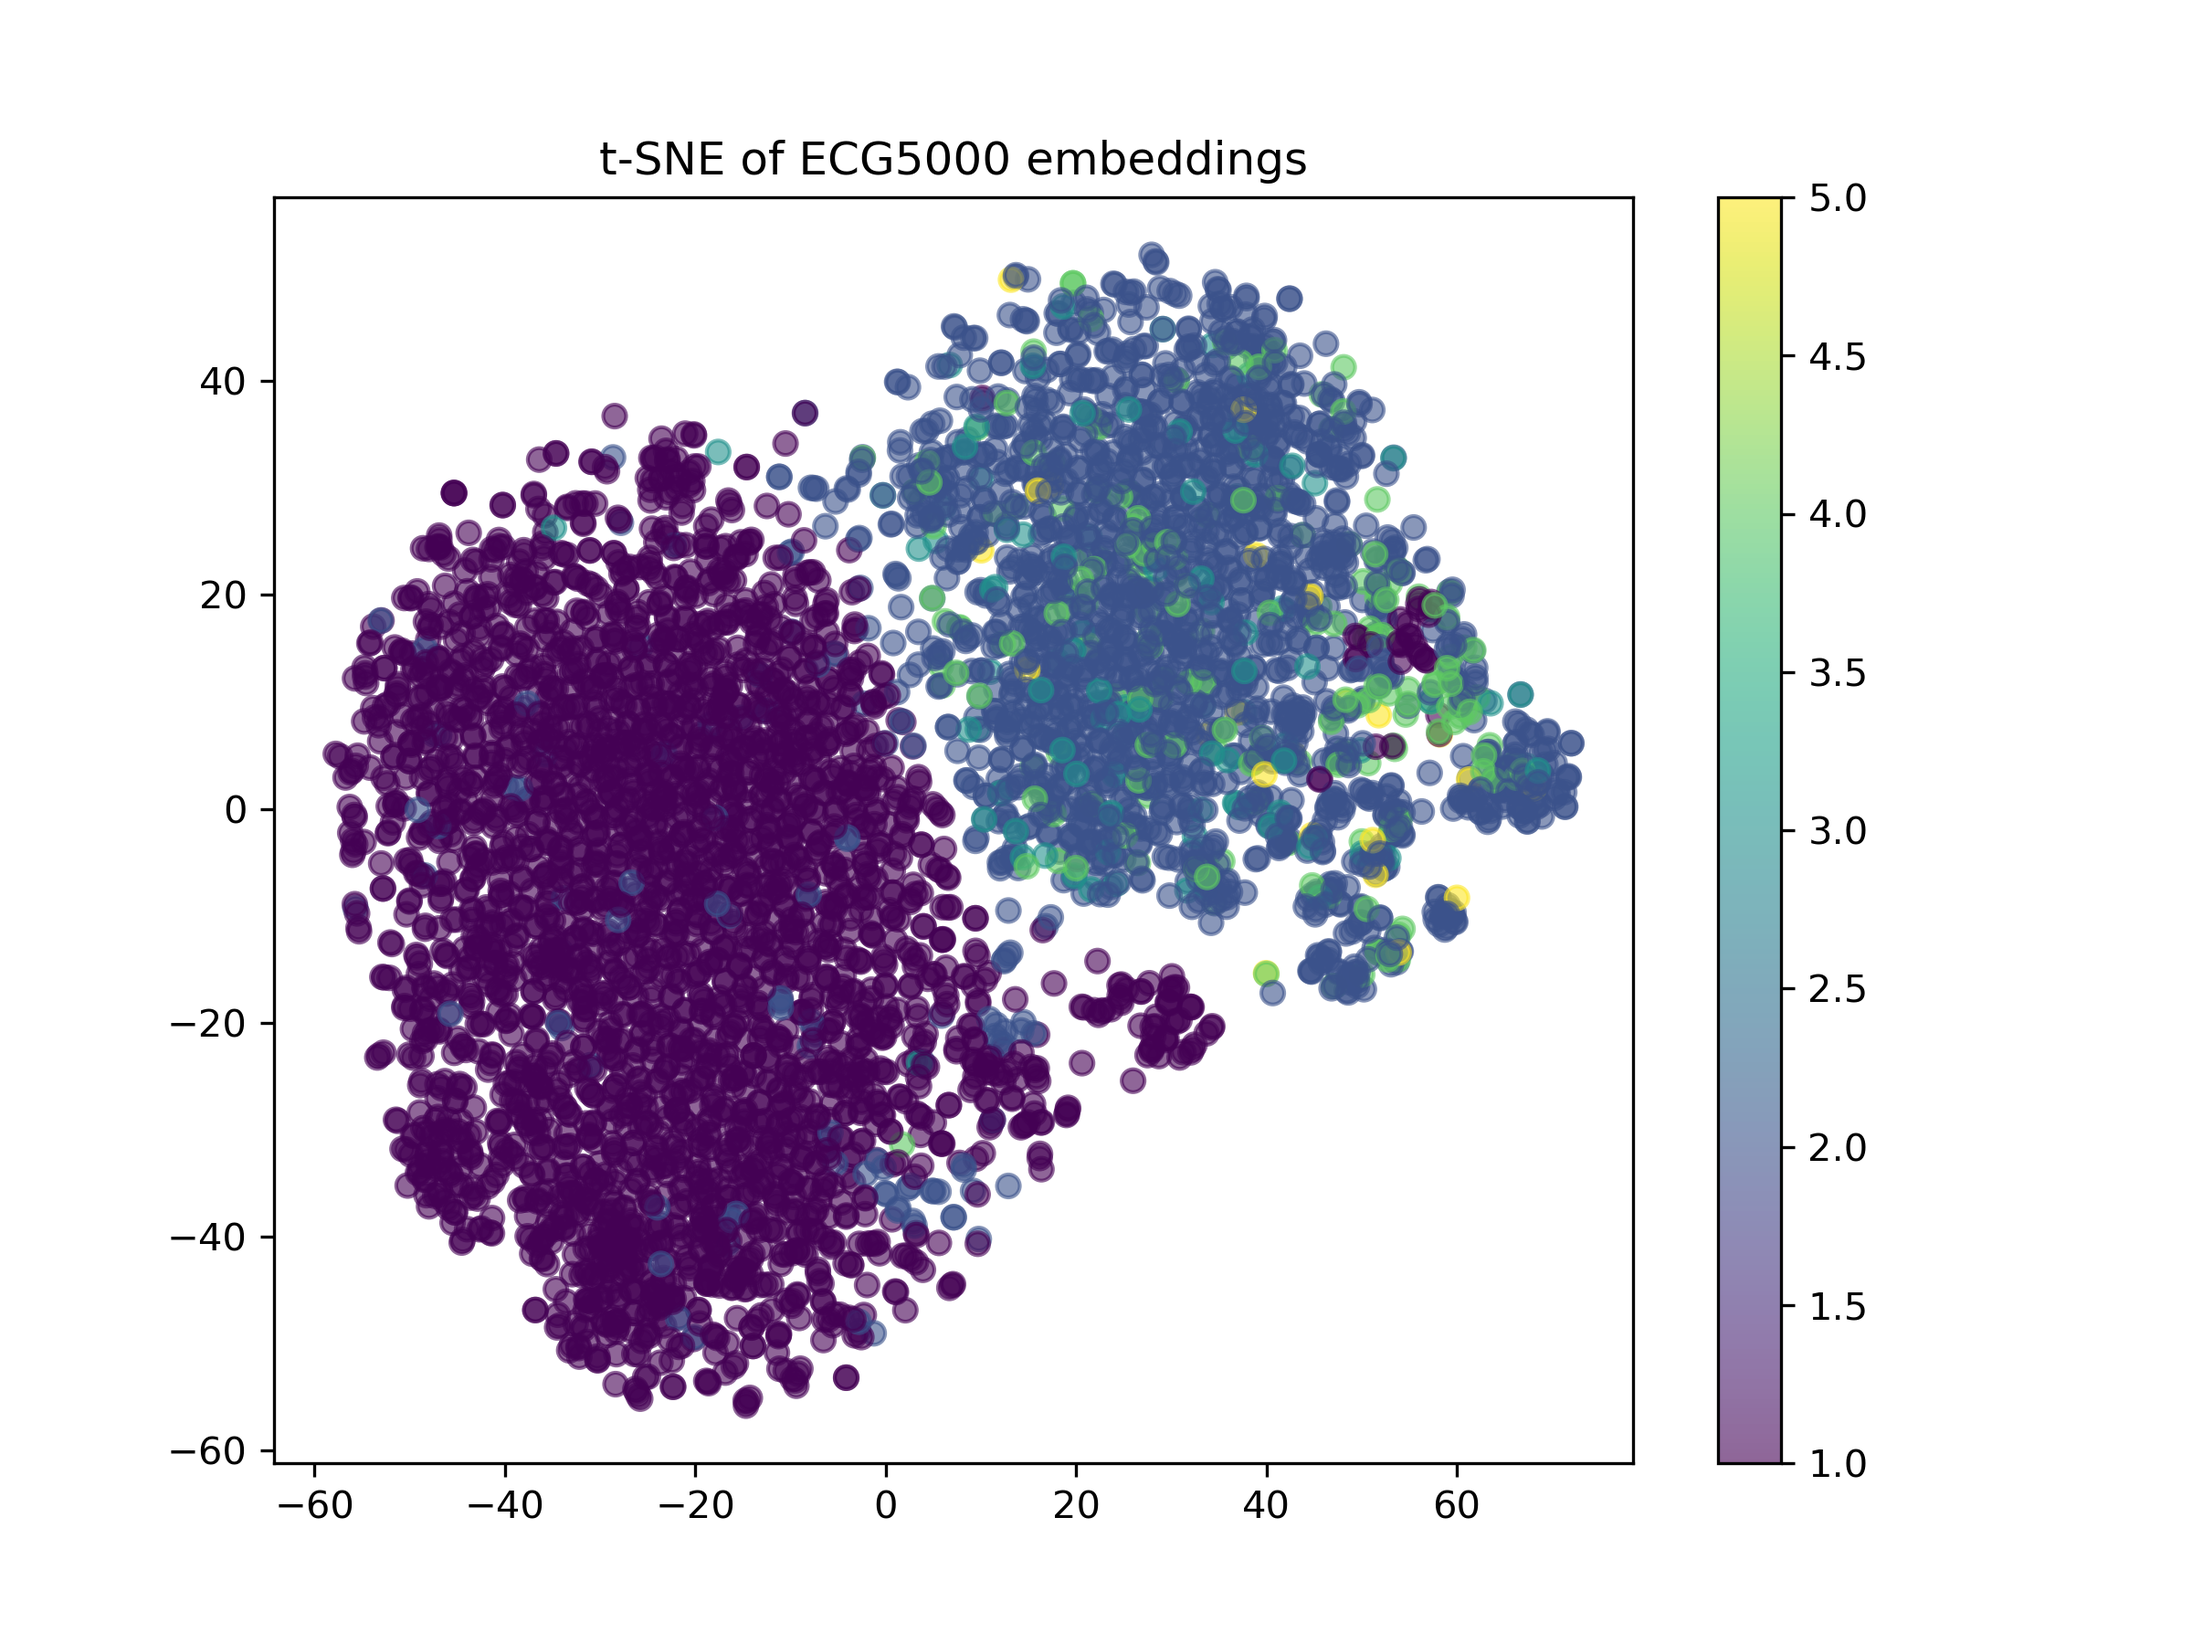
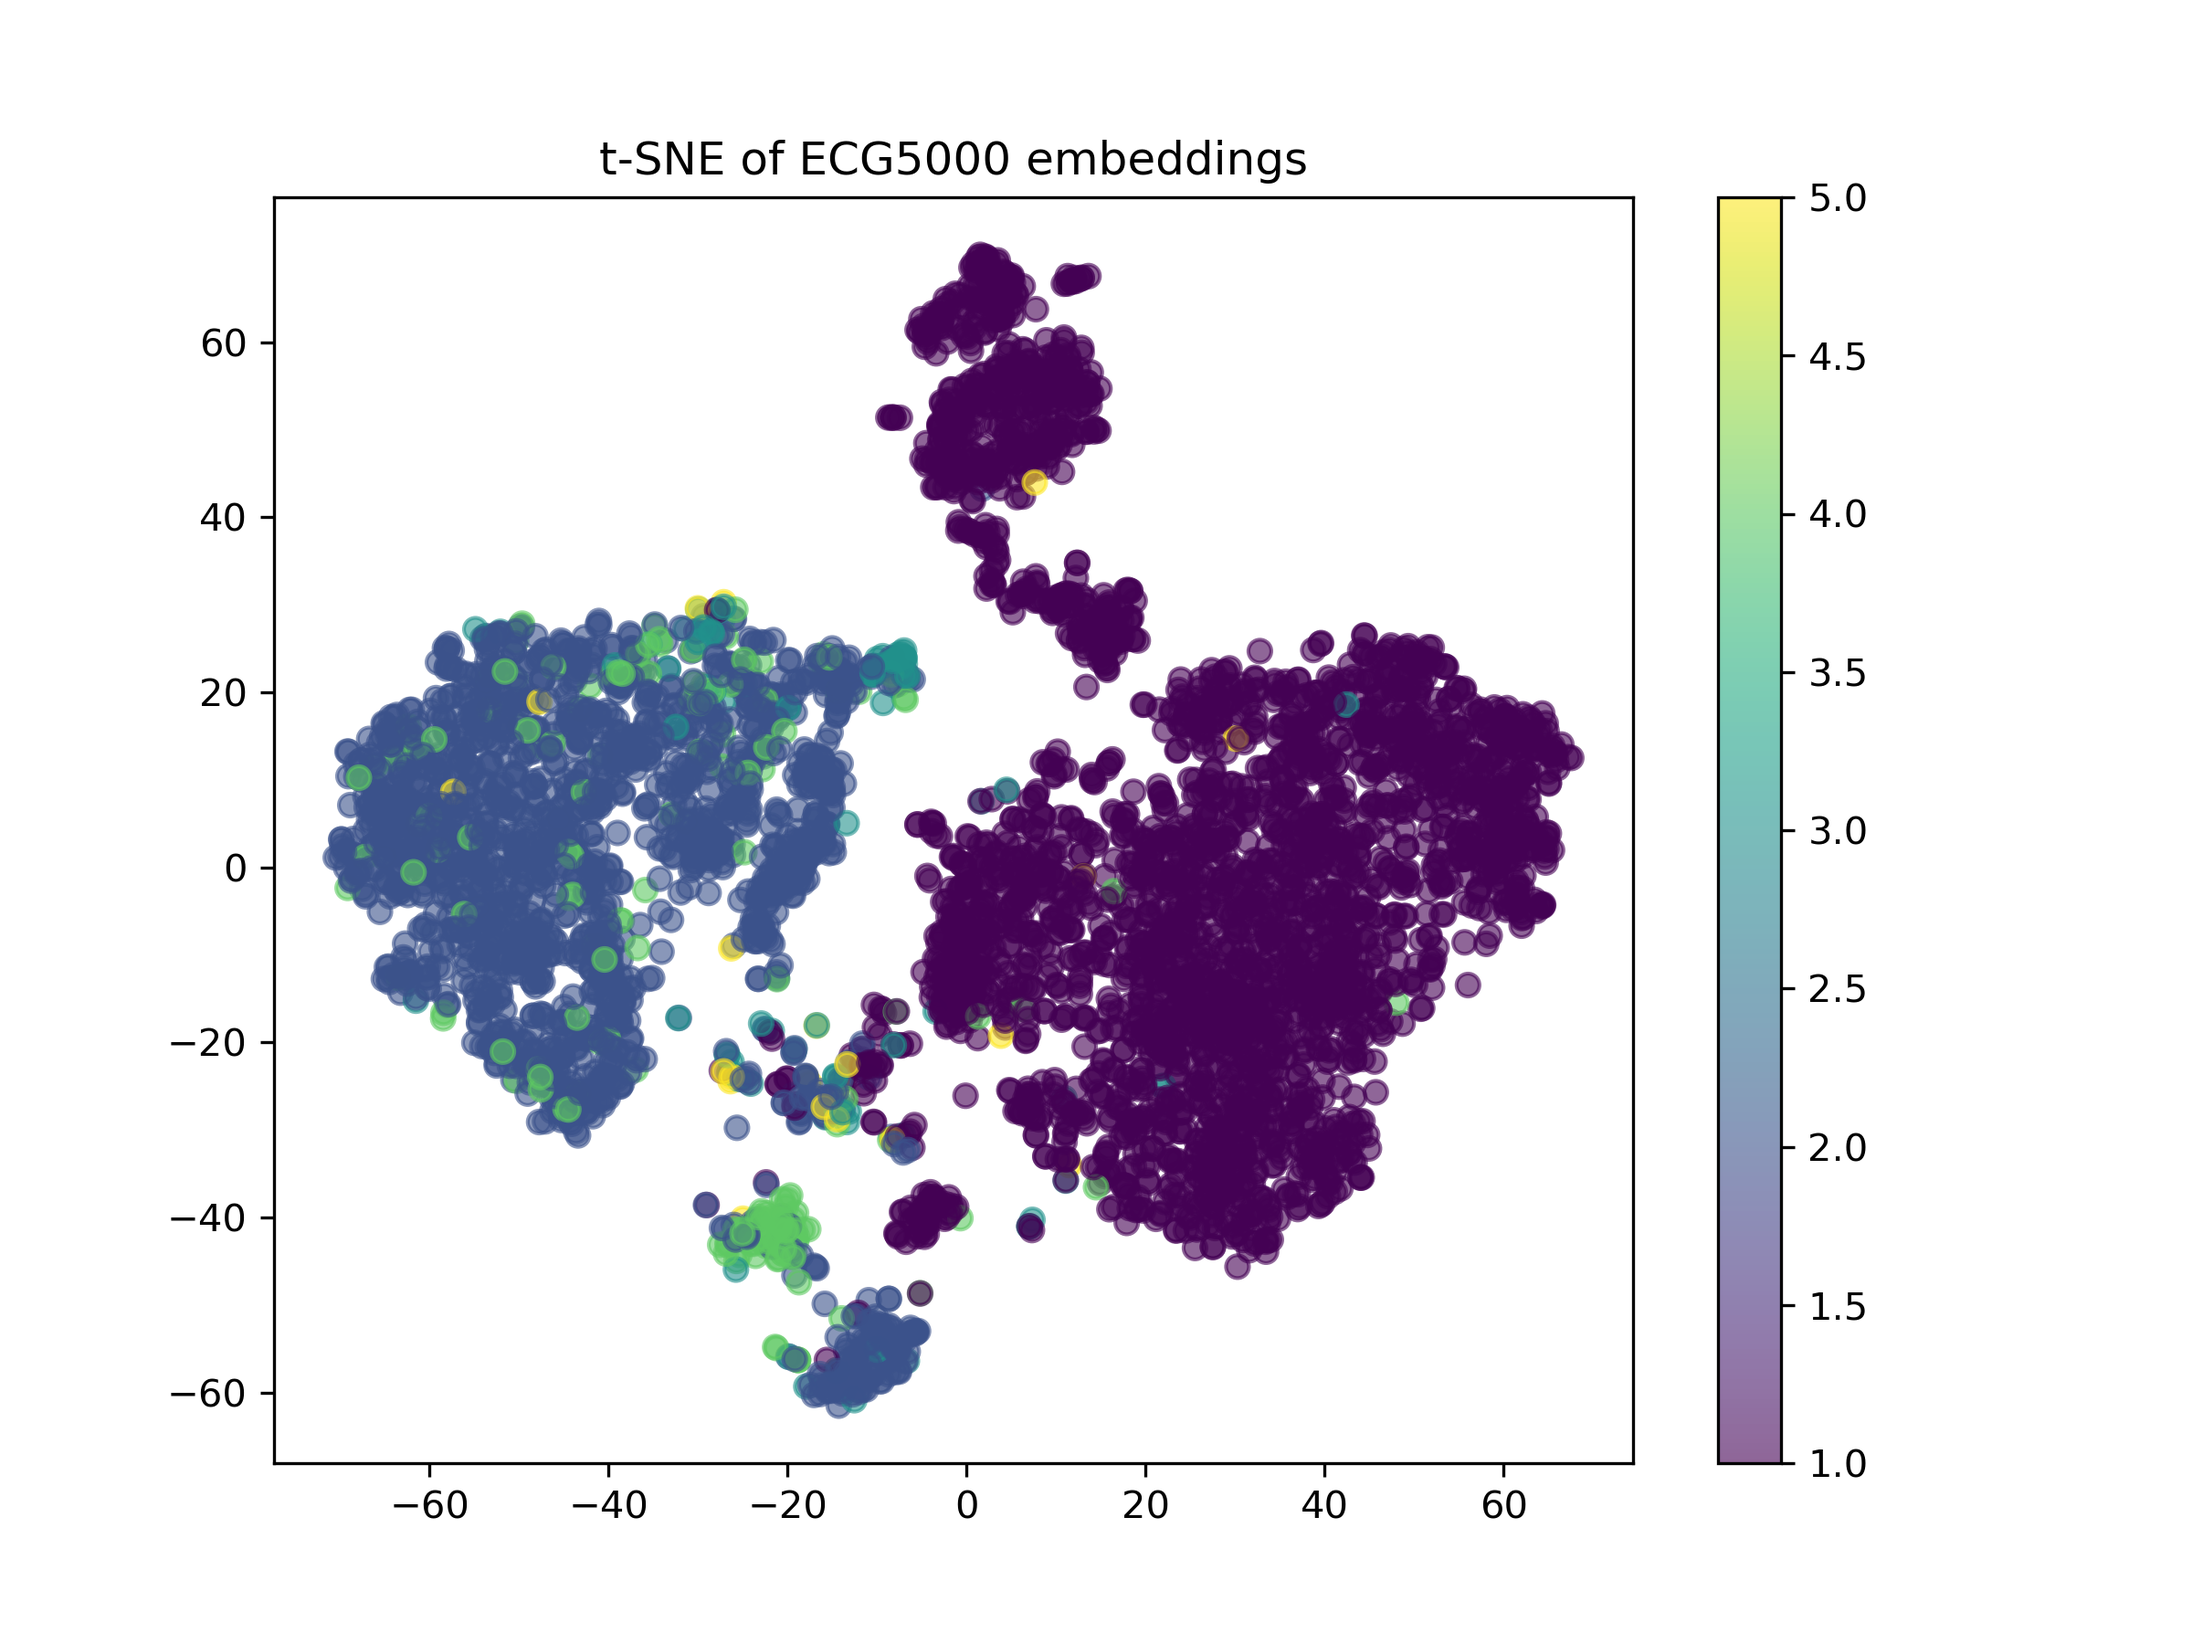
fresh

diff --git a/embedding_visualisation/ecg.py b/embedding_visualisation/ecg.py
@@ -11,6 +11,7 @@ from sklearn.preprocessing import StandardScaler
 from sklearn.decomposition import PCA
 from sklearn.manifold import TSNE
 from torch.utils.data import Dataset, DataLoader
+from scipy.interpolate import interp1d
 
 from models.base_model import PatchTrADencoder
 
@@ -38,22 +39,33 @@ def load_ecg_data(train_path: str, test_path: str):
     return concat[:, 1:], concat[:, 0]
 
 def preprocess_data(data: np.ndarray):
+
     scaler = StandardScaler()
     scaled = scaler.fit_transform(data)
+
+    original_length = data.shape[1]
+    target_length = 100
+    interoplate_func = interp1d(
+        np.linspace(0, 1, original_length),
+        scaled,
+        axis=1
+    )
+    x_new = np.linspace(0, 1, target_length)
+    scaled = interoplate_func(x_new)
+
     return torch.tensor(scaled, dtype=torch.float32)
 
 class ECGDataset(Dataset):
-    def __init__(self, data, labels, window_size=100):
+    def __init__(self, data, labels):
         self.data = data
         self.labels = labels
-        self.window_size = window_size
 
     def __len__(self):
-        return len(self.data) - self.window_size
+        return len(self.data)
 
     def __getitem__(self, idx):
-        x = self.data[idx:idx + self.window_size, :]
-        y = self.labels[idx + self.window_size]
+        x = self.data[idx, :].unsqueeze(-1)
+        y = self.labels[idx]
         return x, y
 
 # ---------------------
@@ -78,13 +90,10 @@ def extract_embeddings(model, dataloader, device):
 # Dimensionality Reduction & Plotting
 # ---------------------
 def reduce_and_plot(embeddings, labels, output_path="ecg_embeddings.png"):
-    # PCA before t-SNE for speed
-    pca = PCA(n_components=50)
-    reduced = pca.fit_transform(embeddings)
 
     # t-SNE
-    tsne = TSNE(n_components=2, perplexity=30, init='pca', learning_rate='auto')
-    embeddings_2d = tsne.fit_transform(reduced)
+    tsne = TSNE(n_components=2)
+    embeddings_2d = tsne.fit_transform(embeddings)
 
     # Plot
     plt.figure(figsize=(8, 6))
